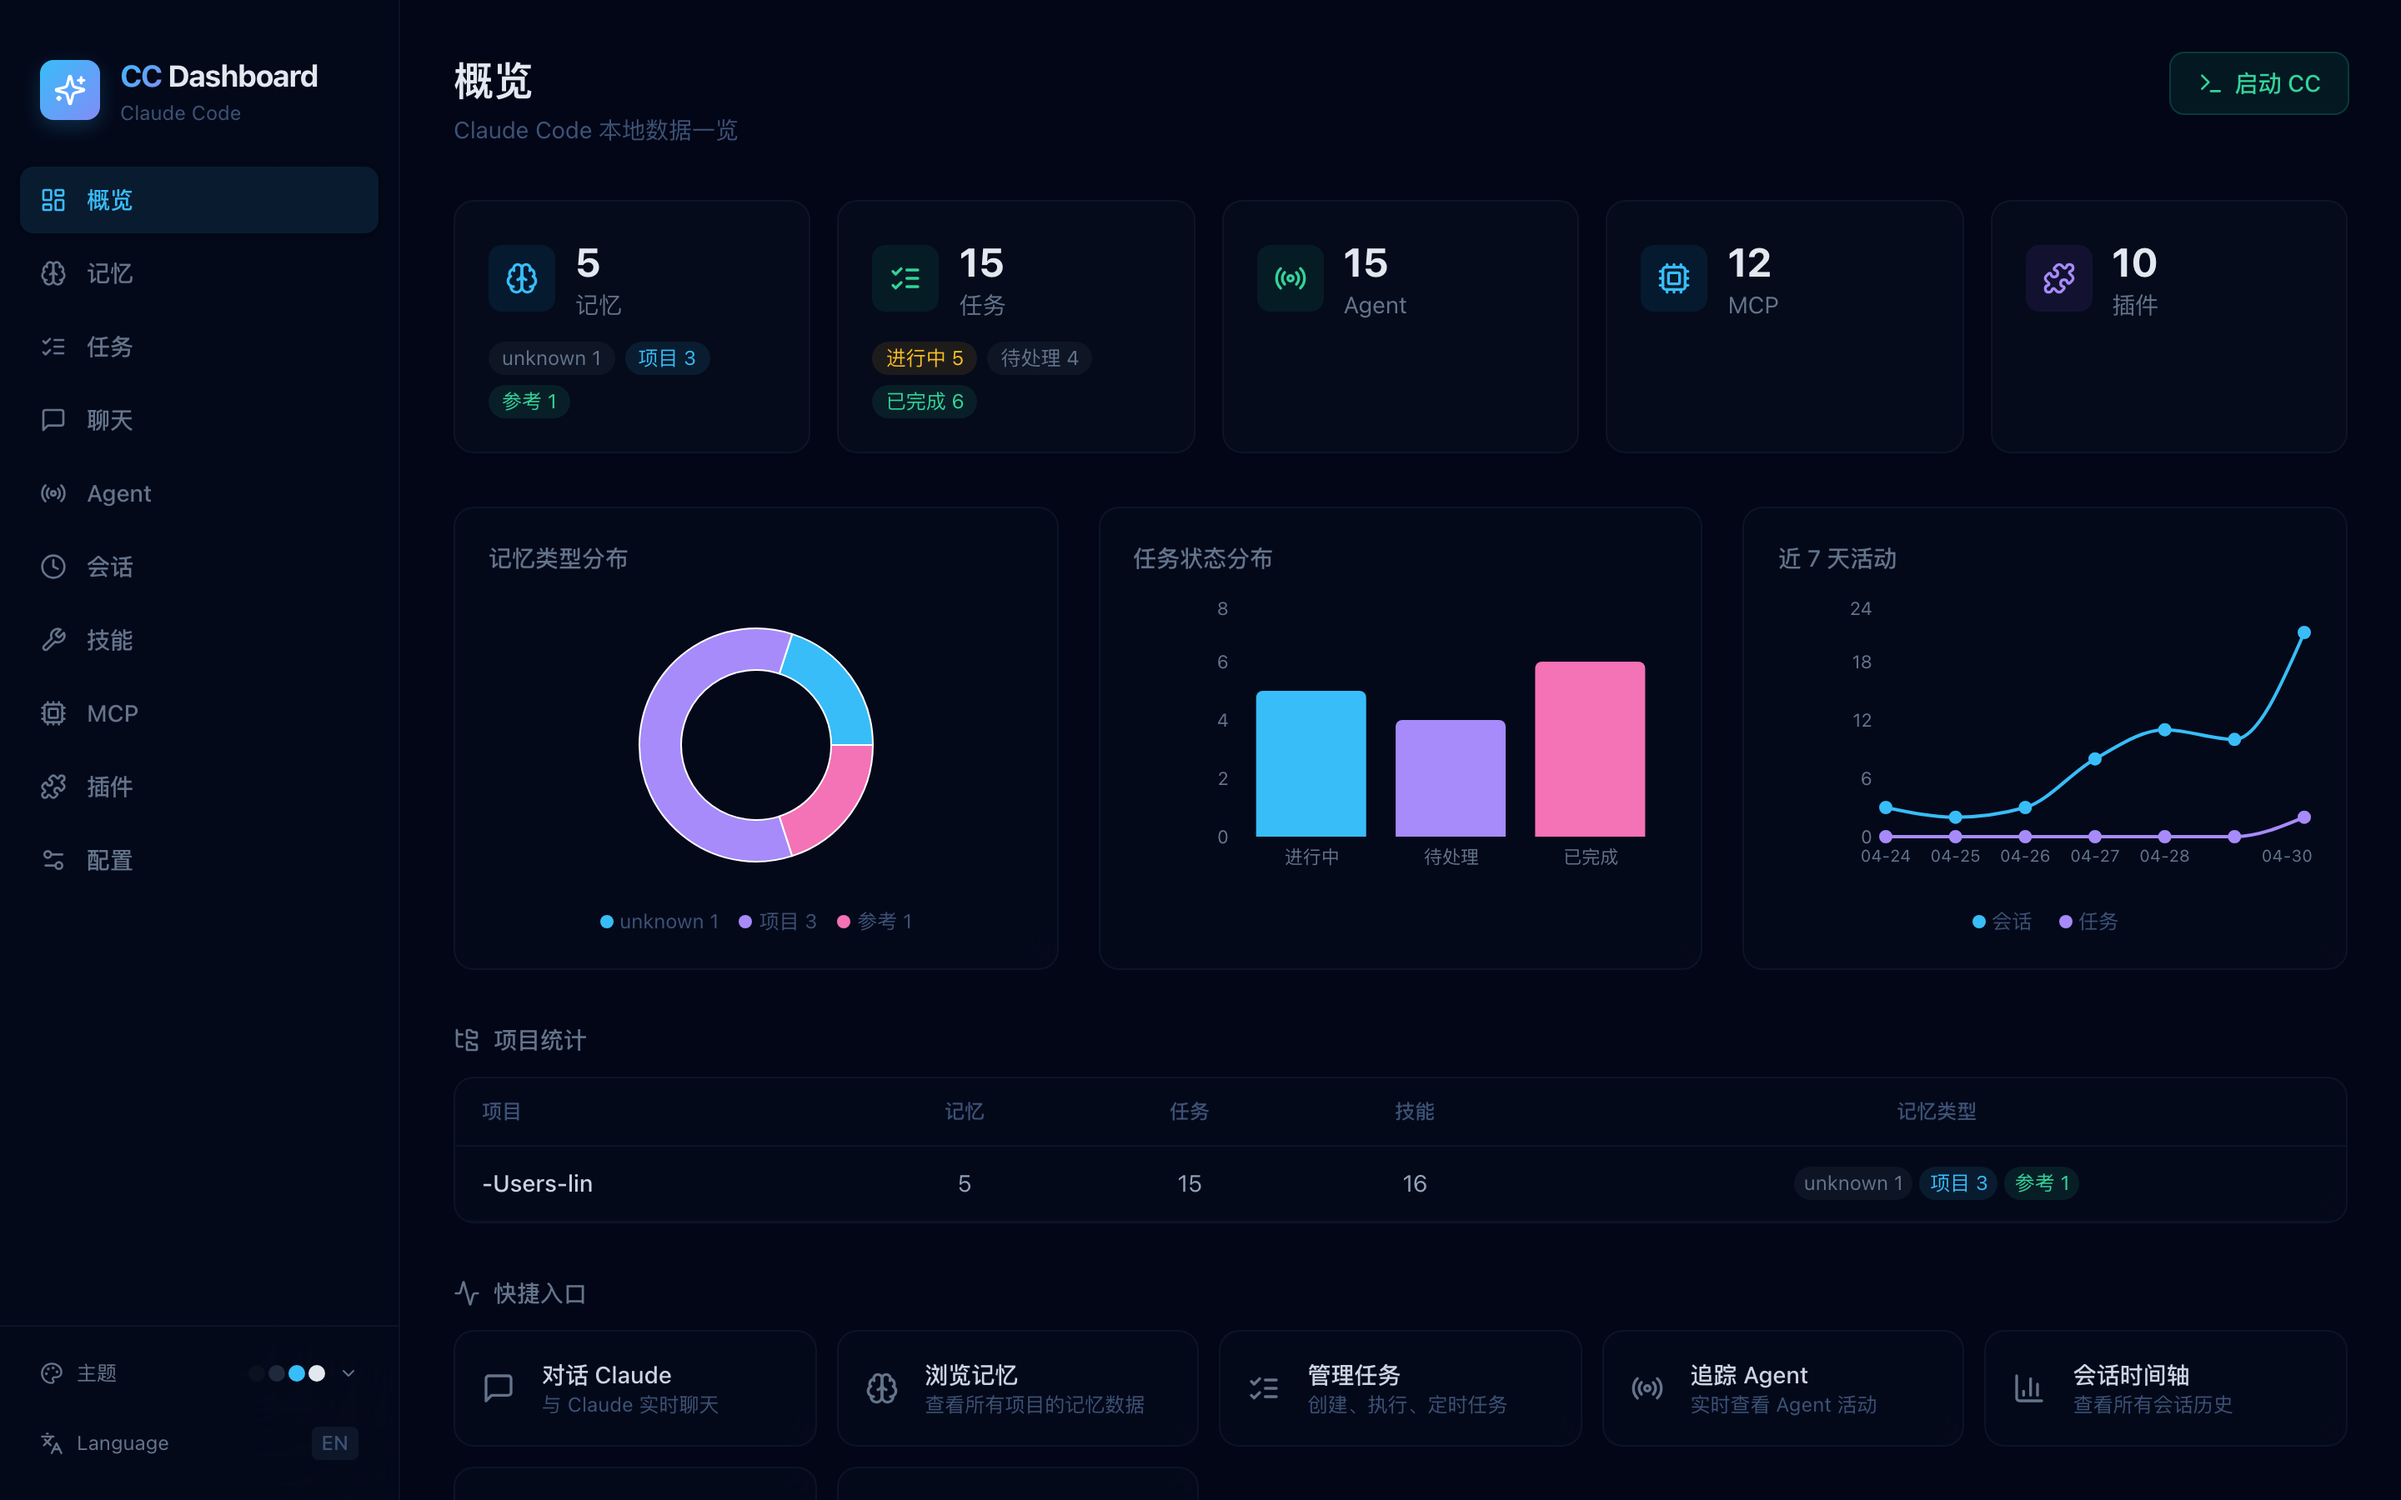
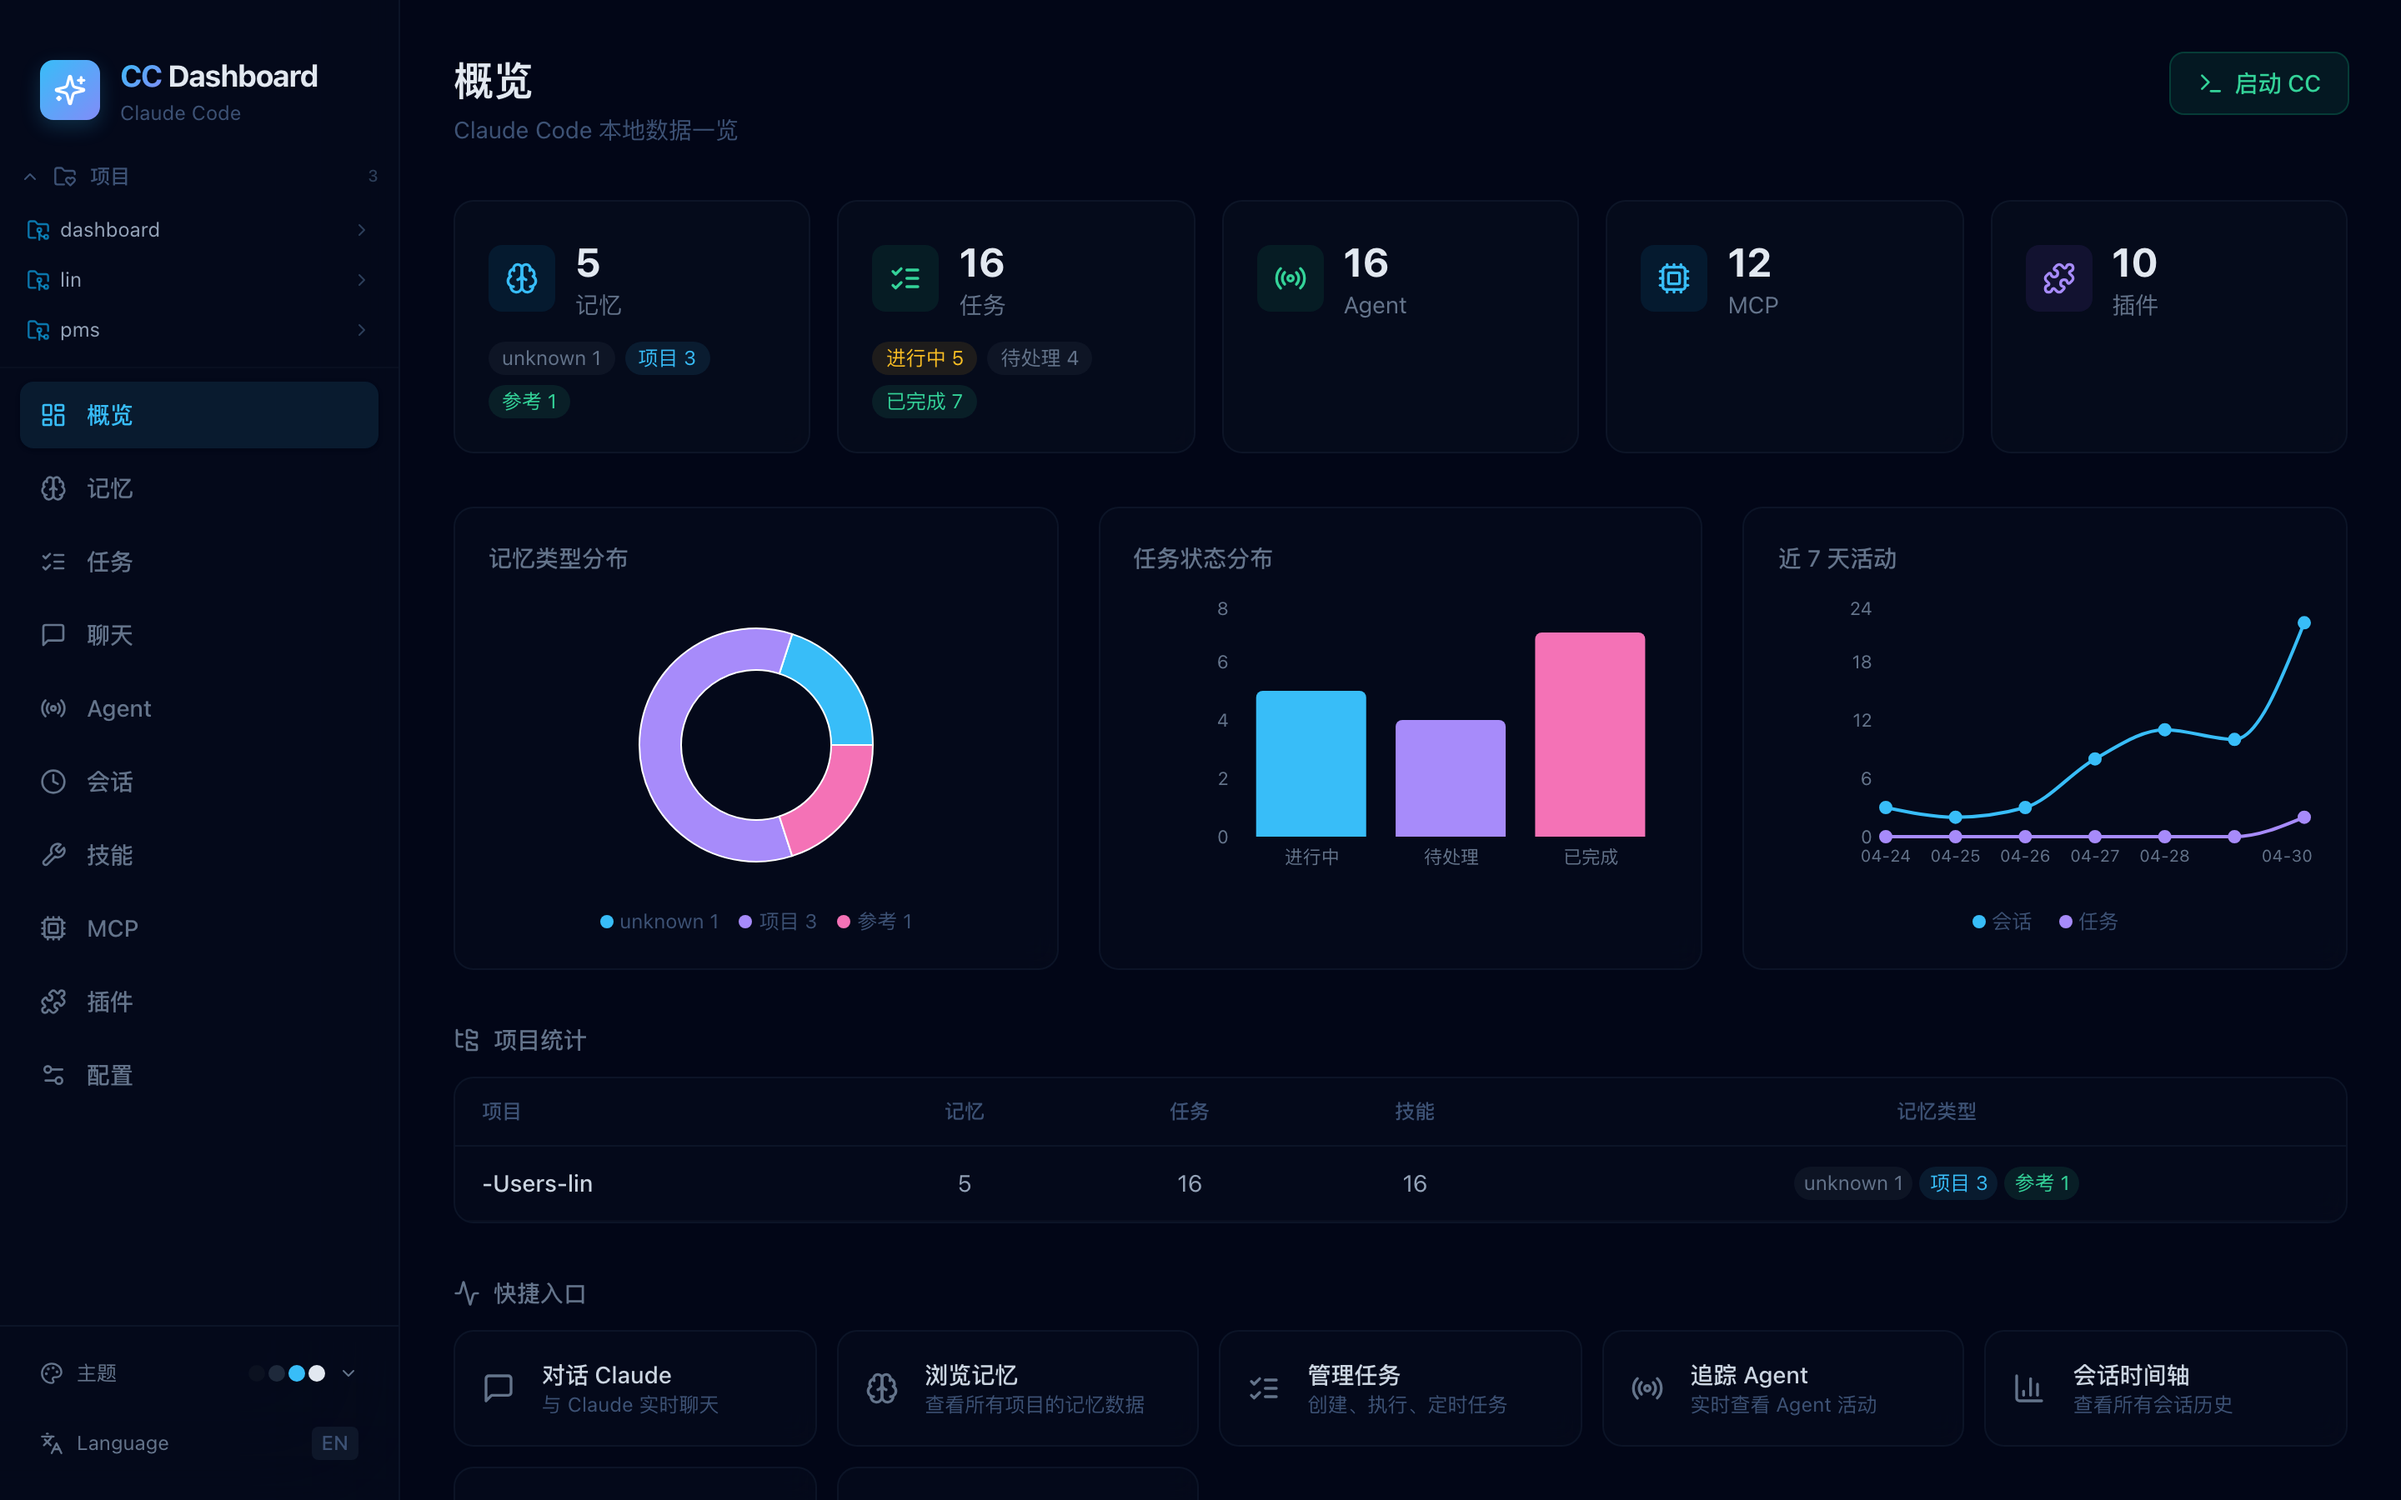
docs: update READMEs and screenshots for project sidebar feature
- Add project sidebar, CC native mode, memory CRUD to feature tables
- Add project page and skills page to screenshots
- Update screenshot script with project and skills pages

diff --git a/README_EN.md b/README_EN.md
@@ -14,11 +14,12 @@ A web dashboard for **Claude Code** — manage memories, tasks, skills, MCP serv
 | Module | Description |
 |--------|-------------|
 | **Dashboard** | Stats overview, memory/task charts, 7-day activity, project breakdown |
-| **Chat** | Streaming AI chat with multi-tab + split-pane layout, edit/copy/export to Markdown |
-| **Memory** | Browse and edit Claude Code project memory files |
+| **Projects** | Left sidebar project list, per-project CC native chat, memory & skill filtering |
+| **Chat** | Streaming AI chat with multi-tab + split-pane, CC native mode & API mode |
+| **Memory** | Browse, create & delete Claude Code project memories, frontmatter editing |
 | **Tasks** | Kanban + list views, scheduling, batch operations, inline execution |
 | **Sessions** | Timeline of all Claude Code sessions with search, favorites, and tags |
-| **Skills** | Browse Markdown skill files, edit/preview with syntax highlighting, source badges |
+| **Skills** | Browse Markdown skill files, edit/preview, global/project/custom source badges |
 | **MCP** | Manage MCP server configs, health checks, **marketplace search & one-click install** |
 | **Plugins** | Installed plugin management, **NPM marketplace search & one-click install** |
 | **Agents** | Agent tracking with tree and DAG views |
@@ -28,17 +29,21 @@ A web dashboard for **Claude Code** — manage memories, tasks, skills, MCP serv
 
 ## Screenshots
 
-| Dashboard | Chat |
-|-----------|------|
-| ![Dashboard](screenshots/dashboard.png) | ![Chat](screenshots/chat.png) |
+| Project Chat | Dashboard |
+|--------------|-----------|
+| ![Project](screenshots/project.png) | ![Dashboard](screenshots/dashboard.png) |
 
-| Task Kanban | MCP Manager |
-|-------------|-------------|
-| ![Tasks](screenshots/tasks.png) | ![MCP](screenshots/mcp.png) |
+| Chat | Task Kanban |
+|------|-------------|
+| ![Chat](screenshots/chat.png) | ![Tasks](screenshots/tasks.png) |
 
-| Sessions | Themes |
-|----------|--------|
-| ![Sessions](screenshots/sessions.png) | ![Themes](screenshots/themes.png) |
+| MCP Manager | Sessions |
+|-------------|----------|
+| ![MCP](screenshots/mcp.png) | ![Sessions](screenshots/sessions.png) |
+
+| Skills | Themes |
+|--------|--------|
+| ![Skills](screenshots/skills.png) | ![Themes](screenshots/themes.png) |
 
 ## Highlights
 
